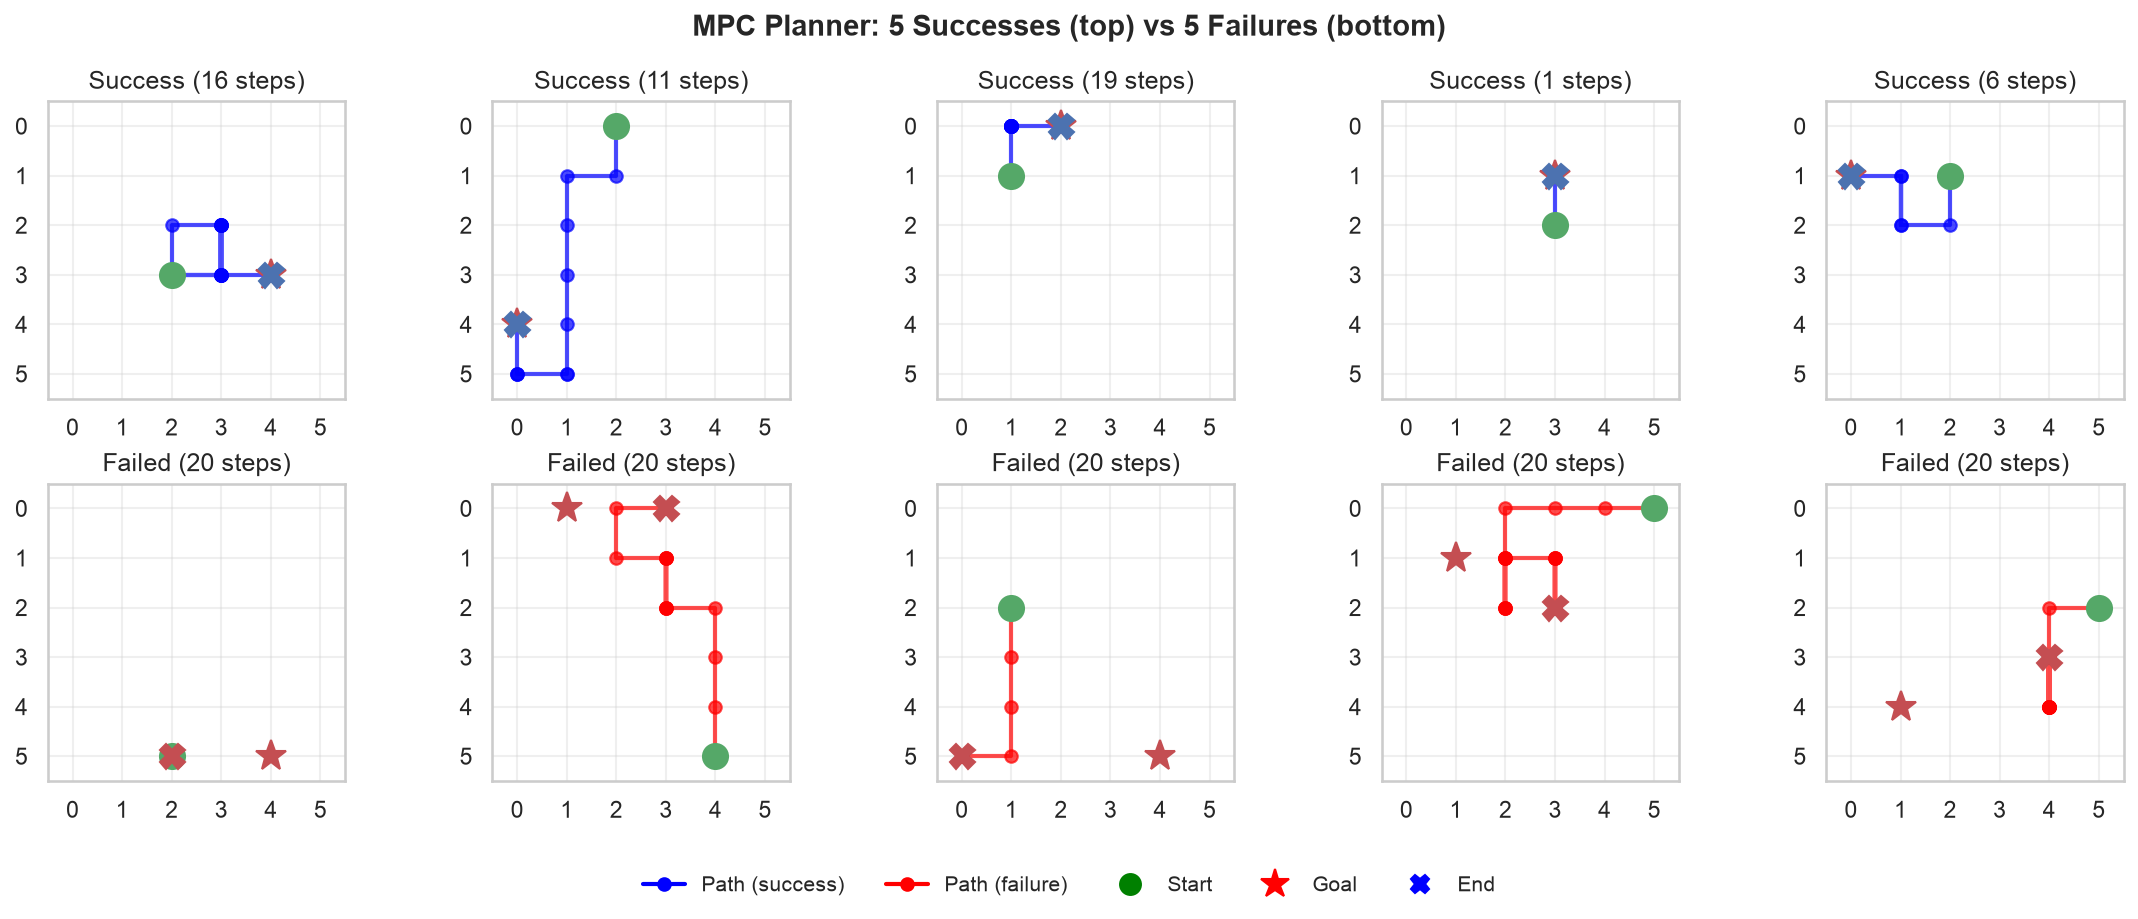
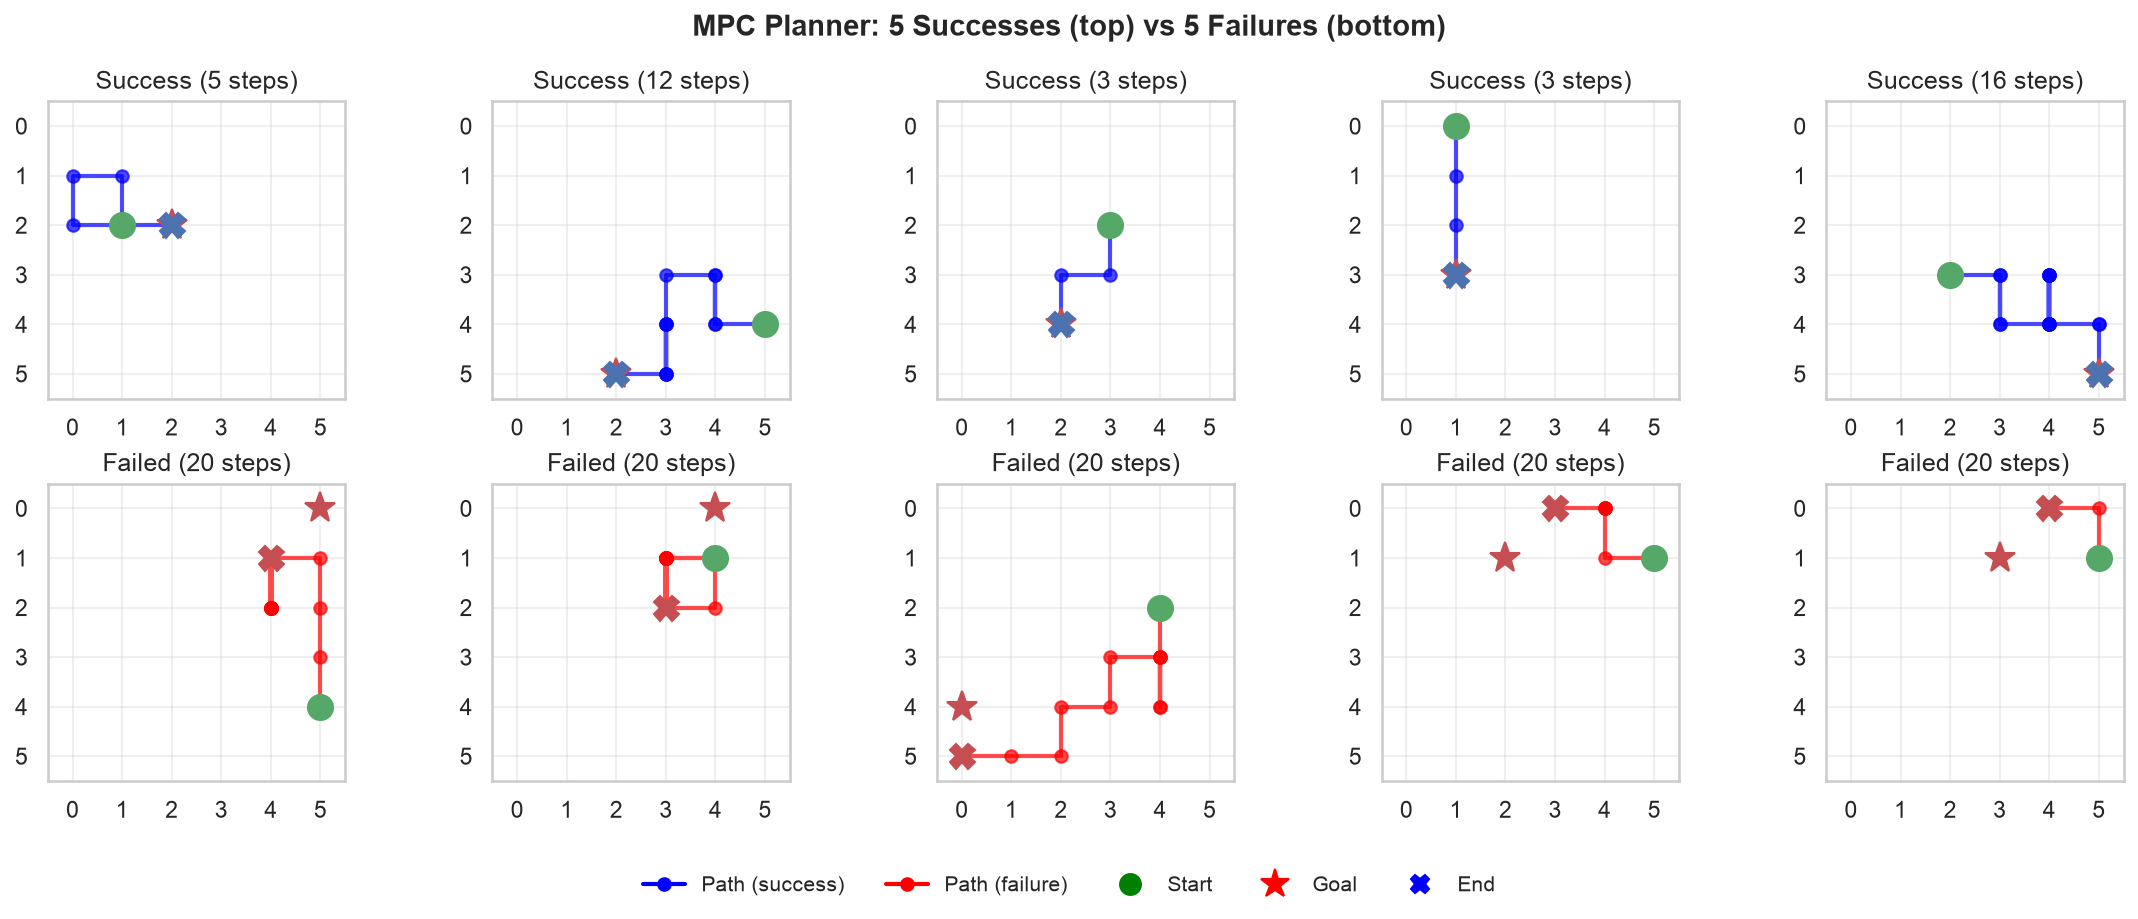
image fix now maybe

diff --git a/docs/jepa.html b/docs/jepa.html
@@ -197,7 +197,7 @@
           <p class="figure-caption">Observation → Encoder → Latent z. Action → Embed → Concat with z → Predictor → Predicted z'. Next observation → Target Encoder (EMA) → Target z'. JEPA Loss = MSE(pred, target) + Variance(z) + Covariance(z).</p>
         </div>
         <div class="figure-content">
-          <img src="/images/architecture.png" alt="JEPA Architecture Diagram" loading="lazy">
+          <img src="images/architecture.png" alt="JEPA Architecture Diagram" loading="lazy">
         </div>
       </div>
     </section>
@@ -212,7 +212,7 @@
           <p class="figure-caption">Config: 100 epochs, batch 32, lr=0.1, no early stopping. Horizon curriculum: 5→10→15→20 every 30 epochs (purple dotted lines). Left: JEPA loss (train + val). Right: Collapse metric (mean latent std) targeting γ=1.0.</p>
         </div>
         <div class="figure-content gif-wrapper">
-          <img src="/images/training_curves.gif" alt="Training curves animation" loading="lazy">
+          <img src="images/training_curves.gif" alt="Training curves animation" loading="lazy">
         </div>
       </div>
     </section>
@@ -227,7 +227,7 @@
           <p class="figure-caption">Top row: 5 successes. Bottom row: 5 failures. Start (green circle), Goal (red star), End (blue X = success, red X = failure) in a 6×6 room. MPC success: 60% (h=5), 90% (h=10), 70% (h=20).</p>
         </div>
         <div class="figure-content">
-          <img src="/images/mpc_trajectories.png" alt="MPC trajectories" loading="lazy">
+          <img src="images/mpc_trajectories.png" alt="MPC trajectories" loading="lazy">
         </div>
       </div>
     </section>
@@ -242,7 +242,7 @@
           <p class="figure-caption">Left: Predicted vs true X position. Center: Predicted vs true Y position. Right: Absolute error distribution. Test MAE ≈ 0.37 cells in 6×6 room. Linear probe on frozen encoder confirms latents encode agent position.</p>
         </div>
         <div class="figure-content">
-          <img src="/images/probe_accuracy.png" alt="Probe accuracy" loading="lazy">
+          <img src="images/probe_accuracy.png" alt="Probe accuracy" loading="lazy">
         </div>
       </div>
     </section>

diff --git a/JEPA/visualize.py b/JEPA/visualize.py
@@ -53,7 +53,7 @@ def main():
         room_size=room_size,
         hidden_dim=cfg.get("hidden_dim", 32),
         steps_per_epoch=steps_per_epoch,
-        output_dir="images",
+        output_dir="../docs/images",
     )
     print("=== Done! ===")
 
